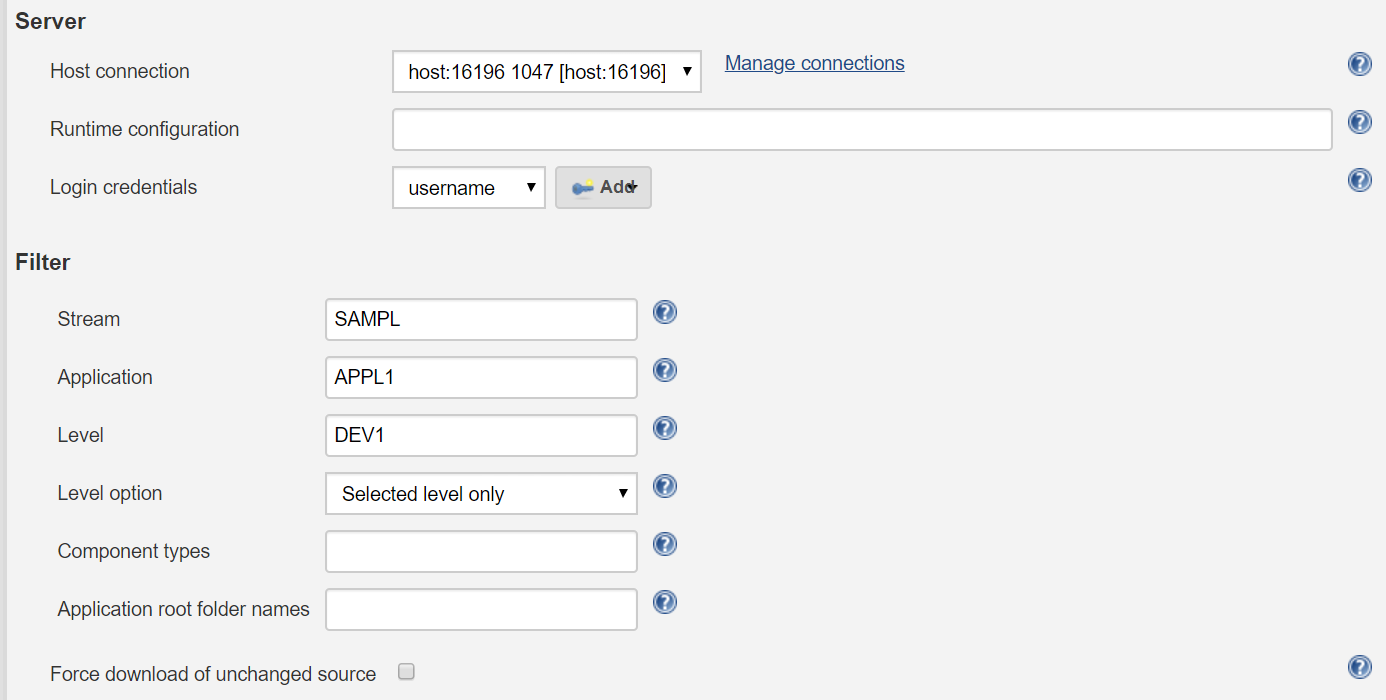
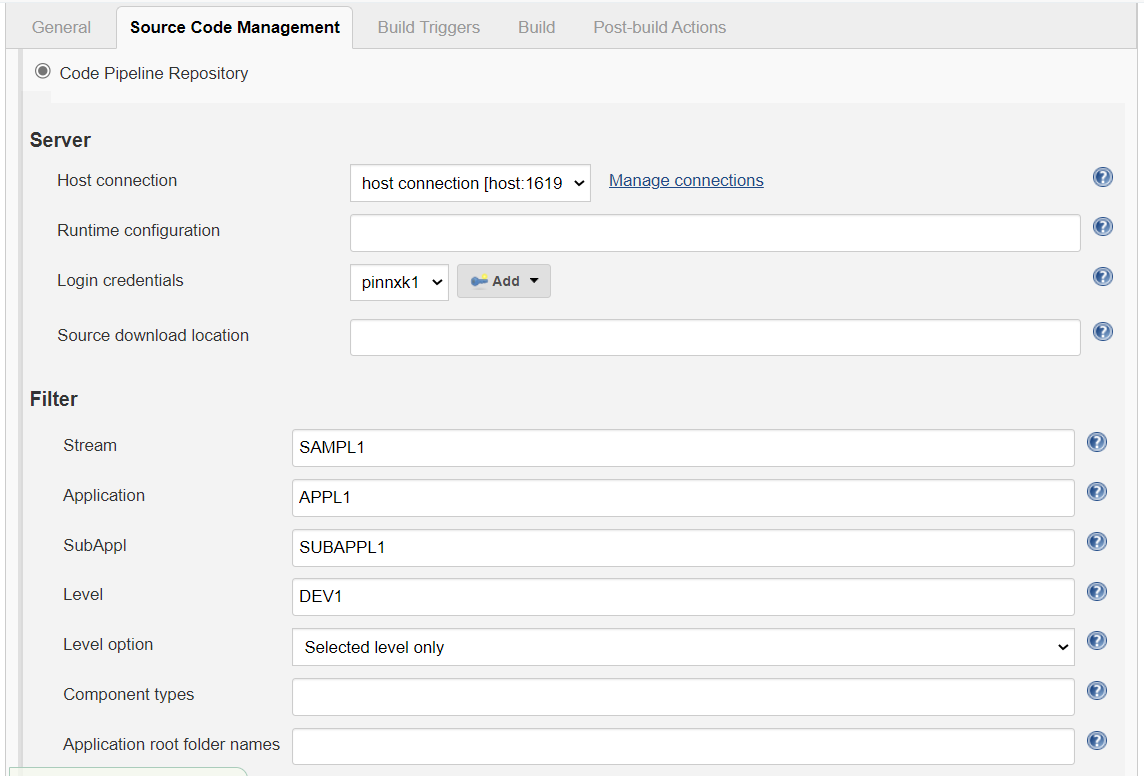
Rebranded ISPW to Code Pipeline (#50)
* Rebranded ISPW to Code Pipeline

* Incorporated review comments

diff --git a/README.md b/README.md
@@ -1,4 +1,4 @@
-# BMC Compuware Source Code Download for Endevor, PDS, and ISPW
+# BMC AMI DevX Source Code Download for Endevor, PDS, and Code Pipeline
 
 [![Jenkins Plugin](https://img.shields.io/jenkins/plugin/v/compuware-scm-downloader.svg)](https://plugins.jenkins.io/compuware-scm-downloader) [![GitHub release](https://img.shields.io/github/v/release/jenkinsci/compuware-scm-downloader.svg?label=release)](https://github.com/jenkinsci/compuware-scm-downloader-plugin/releases) [![Jenkins Plugin Installs](https://img.shields.io/jenkins/plugin/i/compuware-scm-downloader.svg?color=blue)](https://plugins.jenkins.io/compuware-scm-downloader)
 
@@ -6,14 +6,14 @@
 
 ## Overview
 
-The BMC Compuware Source Code Download for Endevor, PDS, and ISPW plugin allows users to download Endevor, PDS, and ISPW members from the mainframe to the PC. Source can then be accessed on the PC, for example, for SonarQube analysis and reporting.
+The BMC AMI DevX Source Code Download for Endevor, PDS, and Code Pipeline plugin allows users to download Endevor, PDS, and Code Pipeline members from the mainframe to the PC. Source can then be accessed on the PC, for example, for SonarQube analysis and reporting.
 
 ## Prerequisites
 
 The following are required to use this plugin:
 - Jenkins
 - Jenkins Credentials Plugin
-- Topaz Workbench CLI. Refer to the [Topaz Workbench Install Guide](https://docs.bmc.com/docs/bctwb/2007/topaz-workbench-installation-guide-1010112445.html) for instructions.
+- Workbench CLI. Refer to the [Workbench Install Guide](https://docs.bmc.com/docs/bctwb/2007/topaz-workbench-installation-guide-1010112445.html) for instructions.
 - For PDS and Endevor downloads, a Topaz for Program Analysis license is required
 - Host Communications Interface
 
@@ -23,14 +23,14 @@ The following are required to use this plugin:
 
 ## Installing in a Jenkins Instance
 
-1. Install the BMC Compuware Source Code Download for Endevor, PDS, and ISPW plugin according to the Jenkins instructions for installing plugins. Dependent plugins will automatically be installed.
-2. Install the Topaz Workbench CLI on the Jenkins instances that will execute the plugin. The Topaz Workbench CLI is available in the Topaz Workbench installation package. If you do not have the installation package, please visit [https://support.bmc.com](https://support.bmc.com). For Topaz Workbench CLI installation instructions, please refer to the [Topaz Workbench Install Guide](https://docs.bmc.com/docs/bctwb/2007/topaz-workbench-installation-guide-1010112445.html).
+1. Install the BMC AMI DevX Source Code Download for Endevor, PDS, and Code Pipeline plugin according to the Jenkins instructions for installing plugins. Dependent plugins will automatically be installed.
+2. Install the Workbench CLI on the Jenkins instances that will execute the plugin. The Workbench CLI is available in the Workbench installation package. If you do not have the installation package, please visit [https://support.bmc.com](https://support.bmc.com). For Workbench CLI installation instructions, please refer to the [Topaz Workbench Install Guide](https://docs.bmc.com/docs/bctwb/2007/topaz-workbench-installation-guide-1010112445.html).
 
-## Configuring for Topaz Workbench CLI & Host Connections
+## Configuring for Workbench CLI & Host Connections
 
-In order to download Endevor, PDS, and ISPW members you will need to point to an installed Topaz Workbench Command Line Interface (CLI). The Topaz Workbench CLI will work with host connection(s) you also need to configure to download Endevor, PDS, and ISPW members.
+In order to download Endevor, PDS, and Code Pipeline members you will need to point to an installed Workbench Command Line Interface (CLI). The Workbench CLI will work with host connection(s) you also need to configure to download Endevor, PDS, and Code Pipeline members.
 
-- See [Configuring for Topaz Workbench CLI & Host Connections](https://github.com/jenkinsci/compuware-common-configuration-plugin/blob/master/README.md#user-content-configuring-for-topaz-workbench-cli--host-connections)
+- See [Configuring for Workbench CLI & Host Connections](https://github.com/jenkinsci/compuware-common-configuration-plugin/blob/master/README.md#user-content-configuring-for-topaz-workbench-cli--host-connections)
 
 ### Downloading Endevor or PDS members
 
@@ -48,7 +48,7 @@ This source code management action has following parameters:
 
 - **Login credentials** : Select the stored credentials to use for logging onto the z/OS host.
 
-![](docs/images/info.svg) Alternatively, click **Add **to add credentials using the [Credentials Plugin](https://plugins.jenkins.io/credentials/). Refer to the Jenkins documentation for the Credentials Plugin.
+![](docs/images/info.svg) Alternatively, click **Add** to add credentials using the [Credentials Plugin](https://plugins.jenkins.io/credentials/). Refer to the Jenkins documentation for the Credentials Plugin.
 
 Do the following:
 
@@ -70,11 +70,11 @@ Run the job, which downloads files to the location in the **Source download loca
 
 <img src="docs/images/download.pds.members.png" height="250"/>
 
-### Downloading ISPW Container members
+### Downloading Code Pipeline Container members
 
-This integration allows downloading of ISPW Container members from the mainframe to the PC.
+This integration allows downloading of Code Pipeline Container members from the mainframe to the PC.
 
-On the **Configuration** page of the job or project, select **ISPW Container** from the **Source Code Management** section.
+On the **Configuration** page of the job or project, select **Code Pipeline Container** from the **Source Code Management** section.
 
 This source code management action has following parameters:
 
@@ -86,9 +86,9 @@ This source code management action has following parameters:
 
 - **Login credentials** : Select the stored credentials to use for logging onto the z/OS host.
 
-![](docs/images/info.svg) Alternatively, click **Add **to add credentials using the [Credentials Plugin](https://plugins.jenkins.io/credentials/). Refer to the Jenkins documentation for the Credentials Plugin.
+![](docs/images/info.svg) Alternatively, click **Add** to add credentials using the [Credentials Plugin](https://plugins.jenkins.io/credentials/). Refer to the Jenkins documentation for the Credentials Plugin.
 
-Do the following in the **Filter** section to identify ISPW members to be downloaded:
+Do the following in the **Filter** section to identify Code Pipeline members to be downloaded:
 
 - **Container name** : Enter the name of the container to target for the download.
 
@@ -112,11 +112,11 @@ Run the job, which by default the following occurs:
 
 <img src="docs/images/download.ispw.container.members.png" height="350"/>
 
-### Downloading ISPW Repository members
+### Downloading Code Pipeline Repository members
 
-This integration allows downloading of ISPW Repository members from the mainframe to the PC.
+This integration allows downloading of Code Pipeline Repository members from the mainframe to the PC.
 
-On the Configuration page of the job or project, select ISPW Repository from the Source Code Management section.
+On the Configuration page of the job or project, select Code Pipeline Repository from the Source Code Management section.
 
 This source code management action has following parameters:
 
@@ -128,14 +128,14 @@ This source code management action has following parameters:
 
 - **Login credentials** : Select the stored credentials to use for logging onto the z/OS host.
 
-![](docs/images/info.svg) Alternatively, click **Add **to add credentials using the [Credentials Plugin](https://plugins.jenkins.io/credentials/). Refer to the Jenkins documentation for the Credentials Plugin.
+![](docs/images/info.svg) Alternatively, click **Add** to add credentials using the [Credentials Plugin](https://plugins.jenkins.io/credentials/). Refer to the Jenkins documentation for the Credentials Plugin.
 
-Do the following in the **Filter** section to identify ISPW members to be downloaded:
+Do the following in the **Filter** section to identify Code Pipeline members to be downloaded:
 
 - **Stream** : Enter the two- to eight-character code that defines the application structure with which the application is associated.
-- ** Application** : Enter the container's primary application code. Containers may include components from multiple applications.
-- ** SubAppl** : Enter the container's primary subapplication code. Containers may include components from multiple subapplications.
-- ** Level** : Enter the life cycle level.
+- **Application** : Enter the container's primary application code. Containers may include components from multiple applications.
+- **SubAppl** : Enter the container's primary subapplication code. Containers may include components from multiple subapplications.
+- **Level** : Enter the life cycle level.
 - **Level option** list (do one of the following):
      - **Selected level only** : Select to display only components at the selected life cycle level in the view.
      - **First found in level and above** : Select to display the first version found of each component at the selected level and above. In other words, if there are multiple versions in the life cycle, display one version of the component that is the first one found at the selected level and any levels in the path above it.
@@ -163,15 +163,15 @@ Run the job, which by default the following occurs:
 
     - When working with an existing Pipeline job, click the **Pipeline Syntax** link in the left panel. The **Snippet Generator** appears.
 
-    - When configuring a Pipeline job, click the **Pipeline Syntax** link at the bottom of the **Pipeline **configuration section. The **Snippet Generator** appears.
+    - When configuring a Pipeline job, click the **Pipeline Syntax** link at the bottom of the **Pipeline** configuration section. The **Snippet Generator** appears.
 
 - **Sample Step** : Select **checkout: General SCM** .
 
-- **SCM** : Select **Endevor**, **ISPW Container**, **ISPW Repository**, or **PDS** as the version control system from which to get the code.
+- **SCM** : Select **Endevor**, **Code Pipeline Container**, **Code Pipeline Repository**, or **PDS** as the version control system from which to get the code.
 
 - Complete the remaining fields for the selected SCM.
 
-- Click **Generate Pipeline Script**. The Groovy script to invoke the BMC Compuware Source Code Download for Endevor, PDS, and ISPW plugin appears. The script can be added to the Pipeline section when configuring a Pipeline job. A sample script is shown below:
+- Click **Generate Pipeline Script**. The Groovy script to invoke the BMC AMI DevX Source Code Download for Endevor, PDS, and Code Pipeline plugin appears. The script can be added to the Pipeline section when configuring a Pipeline job. A sample script is shown below:
 
 ~~~
 stage("Download PDS") {
@@ -185,27 +185,27 @@ stage("Download PDS") {
 }
 ~~~
 
-![](docs/images/info.svg) The **Include in polling?** and **Include in changelog?** check boxes have no effect in the BMC Compuware Source Code Download for Endevor, PDS, and ISPW plugin.
+![](docs/images/info.svg) The **Include in polling?** and **Include in changelog?** check boxes have no effect in the BMC AMI DevX Source Code Download for Endevor, PDS, and Code Pipeline plugin.
 
 ## Product Assistance
 
-BMC Compuware provides assistance for customers with its documentation and the support web site.
+BMC provides assistance for customers with its documentation and the support web site.
 
-### Compuware Support Center
+### BMC Support Center
 
 You can access online information for BMC products via our Support Center site at [https://support.bmc.com](https://support.bmc.com/). Support Center provides access to critical information about your BMC products. You can review frequently asked questions, read or download documentation, access product fixes, or e-mail your questions or comments. The first time you access Support Center, you must register and obtain a password. Registration is free.
 
 ### Contacting Customer Support
 
-At BMC Compuware, we strive to make our products and documentation the best in the industry. Feedback from our customers helps us maintain our quality standards. If you need support services, please obtain the following information :
+At BMC, we strive to make our products and documentation the best in the industry. Feedback from our customers helps us maintain our quality standards. If you need support services, please obtain the following information :
 
 - The Jenkins job console output that contains any error messages or pertinent information.
 
-- The name, release number, and build number of your product. This information is displayed in the Jenkins / Plugin Manager and go to the Installed tab. Apply filter: BMC Compuware in order to display all of the installed BMC Compuware plugins.
+- The name, release number, and build number of your product. This information is displayed in the Jenkins / Plugin Manager and go to the Installed tab. Apply filter: BMC in order to display all of the installed BMC plugins.
 
 - Job information, whether the job uses Pipeline script or Freestyle project.
 
-- Environment information, such as the operating system and release on which the Topaz CLI is installed.
+- Environment information, such as the operating system and release on which the Workbench CLI is installed.
 
 #### Web
 

diff --git a/CHANGELOG.md b/CHANGELOG.md
@@ -9,9 +9,9 @@ Change Log
 2.0.9
 ------
 
-- Added option to download related Includes (Copybooks) for Source members on the ISPW Container and Repository download panels.
+- Added option to download related Includes (Copybooks) for Source members on the Code Pipeline Container and Repository download panels.
 
-- Known Issue: Nested Copybooks will not be downloaded. There will be a fix to ISPW on the mainframe for this. When it is available the fix number will be posted here.
+- Known Issue: Nested Copybooks will not be downloaded. There will be a fix to Code Pipeline on the mainframe for this. When it is available the fix number will be posted here.
 
 2.0.8
 ------
@@ -31,33 +31,33 @@ Change Log
 2.0.5
 ------
 
-- Updated referenced Compuware Common Configuration plugin version
+- Updated referenced BMC AMI DevX Common Configuration plugin version
 
 2.0.4
 ------
 
-This release requires Topaz Workbench CLI version 19.04.01 or higher.
+This release requires Workbench CLI version 19.04.01 or higher.
 
 - Added support for encryption protocol for a host connection.
 
 2.0.0
 ------
 
-- The plugin now integrates with the Compuware Common Configuration plugin, which allows the Host Connection configurations and Topaz Workbench CLI to be defined centrally for other Compuware Jenkins plugins instead of needing to be specified in each Jenkins project's configuration. Host Connection configuration is now defined in the Jenkins/Manage Jenkins/Configure System screen.
+- The plugin now integrates with the BMC AMI DevX Common Configuration plugin, which allows the Host Connection configurations and Workbench CLI to be defined centrally for other BMC Jenkins plugins instead of needing to be specified in each Jenkins project's configuration. Host Connection configuration is now defined in the Jenkins/Manage Jenkins/Configure System screen.
  
 - Jenkins console logs produced by the plugin have been streamlined to improve readability.
 
-- ISPW filters can now be specified to only download specified folders in the ISPW repository.
+- Code Pipeline filters can now be specified to only download specified folders in the Code Pipeline repository.
 
-- ISPW mainframe source files will now be downloaded to the following directory structure under the Jenkins Workspace <Jenkins Project>/<ISPW Application Name>/MF_Source directory instead of to the root of the <ISPW Application Name> directory.
+- Code Pipeline mainframe source files will now be downloaded to the following directory structure under the Jenkins Workspace <Jenkins Project>/<ISPW Application Name>/MF_Source directory instead of to the root of the <ISPW Application Name> directory.
 
 - PDS and Endevor configurations now allow a source download folder to be specified in the configuration.
 
-- Version checking has been introduced between the plugin and the Topaz Workbench CLI.
+- Version checking has been introduced between the plugin and the Workbench CLI.
 
 Upgrade considerations
 
-- The 18.2.3 version of the Topaz Workbench CLI is required. The Topaz Workbench CLI is included in the Topaz Workbench installation media provided by Compuware.
+- The 18.2.3 version of the Workbench CLI is required. The Workbench CLI is included in the Workbench installation media provided by BMC.
 
 - Existing Freestyle Jenkins projects will automatically migrate data into the new versions plugin, but the user should validate the project settings and save the updates before executing the project.
 
@@ -66,7 +66,7 @@ Upgrade considerations
 1.8
 ------
 
-- ISPW is now a separate option from PDS in the SCM section of the configuration. By using ISPW, users are able to configure the source download using the same selection and filtering options as the ISPW Repository Explorer in Topaz Workbench.
+- Code Pipeline is now a separate option from PDS in the SCM section of the configuration. By using Code Pipeline, users are able to configure the source download using the same selection and filtering options as the Code Pipeline Repository Explorer in Workbench.
 
 1.7
 ------
